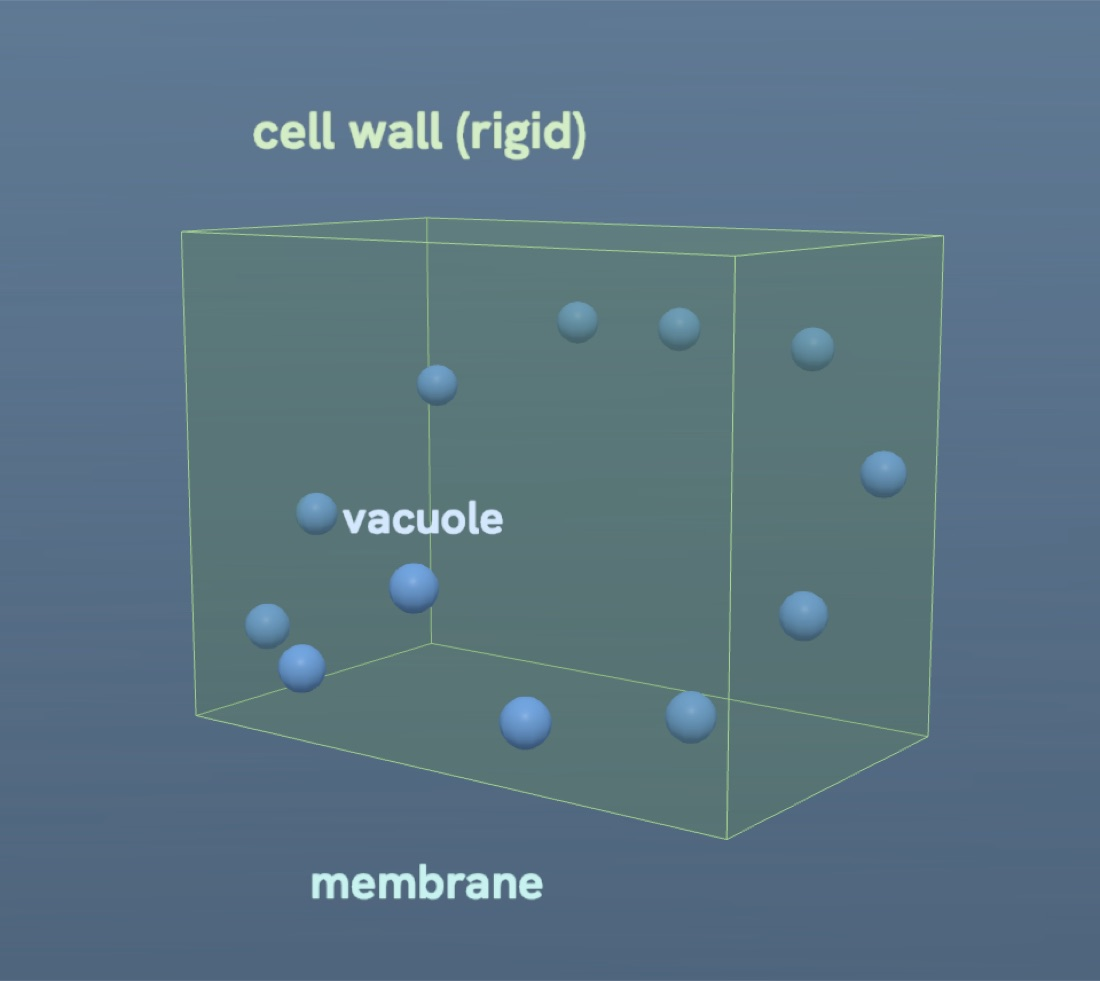
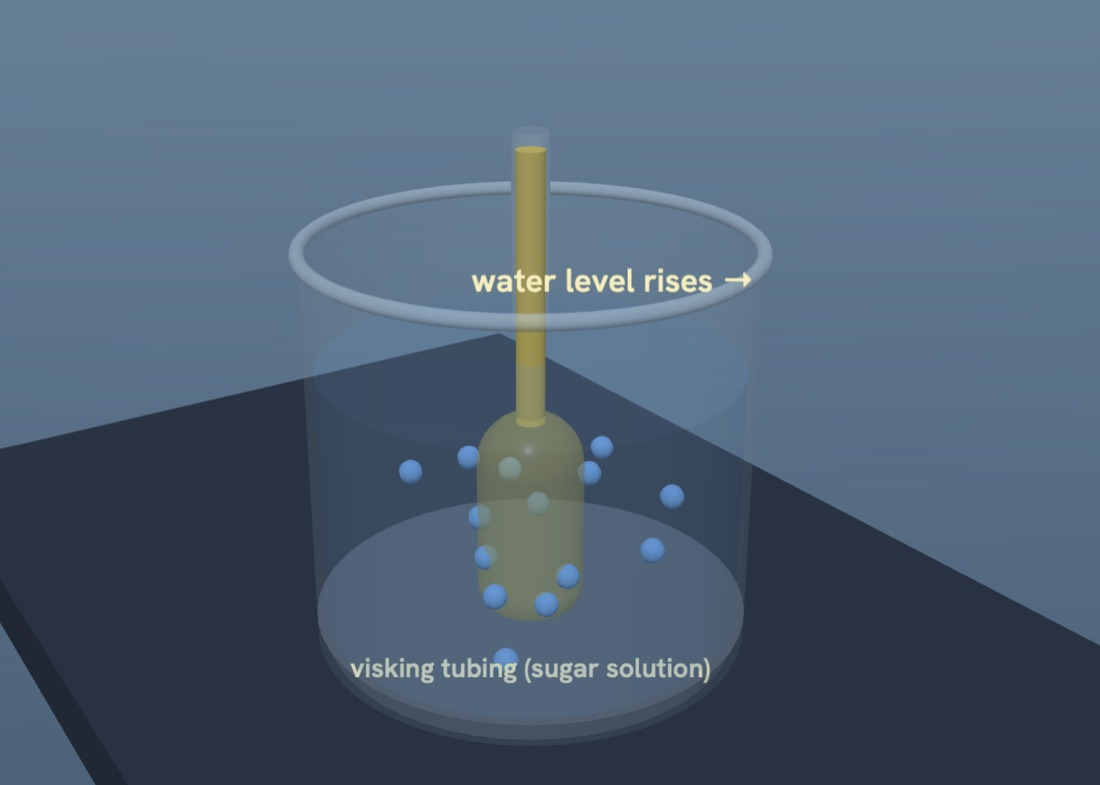
Supply & Demand v2: tangible marketplace (sold/unsold/unserved), scenario buttons, animated curves; update active-transport/le-chatelier/states tile pics

diff --git a/economics.html b/economics.html
@@ -13,20 +13,21 @@
   #gl{position:fixed;inset:0;width:100%;height:100%;display:block}
   .back{position:fixed;top:16px;left:18px;z-index:10;color:var(--dim);text-decoration:none;font-size:14px;font-weight:600}.back:hover{color:var(--ink)}
   .title{position:fixed;top:14px;left:0;right:0;text-align:center;z-index:9;font-family:'Fraunces',serif;font-weight:600;font-size:21px;text-shadow:0 2px 12px rgba(0,0,0,.5)}
-  .info{position:fixed;top:62px;right:14px;z-index:9;width:min(228px,50vw);background:var(--panel);border:1px solid var(--line);border-radius:16px;padding:14px;backdrop-filter:blur(14px)}
-  .rr{display:flex;justify-content:space-between;align-items:center;font-size:13px;margin-top:8px}.rr:first-child{margin-top:0}.rr .v{font-family:'Fraunces',serif;font-weight:600;font-size:16px}
-  .rr .v.p{color:var(--amber)}
-  .status{text-align:center;font-weight:700;font-size:14px;margin-top:11px;padding:7px;border-radius:9px}
-  .status.eq{background:rgba(46,196,182,.15);color:var(--teal)}.status.short{background:rgba(255,107,107,.16);color:#ff8f8f}.status.surp{background:rgba(246,166,35,.16);color:var(--amber)}
-  .note{font-size:11.5px;color:var(--dim);line-height:1.55;margin-top:10px;border-top:1px dashed var(--line);padding-top:9px}.note b{color:var(--amber)}
-  .ctrl{position:fixed;bottom:0;left:0;right:0;z-index:9;background:var(--panel);border-top:1px solid var(--line);border-radius:18px 18px 0 0;padding:14px clamp(14px,5vw,60px) calc(16px + env(safe-area-inset-bottom));backdrop-filter:blur(14px)}
-  .wrap2{max-width:700px;margin:0 auto}
-  .row{display:flex;align-items:center;gap:14px;margin-top:9px}.row:first-child{margin-top:0}
-  .row .name{flex:0 0 150px;font-weight:600;font-size:14px}.row .name.d{color:var(--demand)}.row .name.s{color:var(--supply)}
-  .row input[type=range]{flex:1;height:28px}
-  .row .val{flex:0 0 70px;text-align:right;font-family:'Fraunces',serif;font-weight:600;font-size:15px;color:var(--teal)}
-  #d{accent-color:var(--demand)}#s{accent-color:var(--supply)}#pc{accent-color:var(--amber)}
-  .seg button{font-family:'Hanken Grotesk';font-weight:600;font-size:12.5px;color:var(--dim);background:rgba(255,255,255,.06);border:1px solid var(--line);border-radius:9px;padding:7px 12px;cursor:pointer}
+  .info{position:fixed;top:58px;right:14px;z-index:9;width:min(230px,52vw);background:var(--panel);border:1px solid var(--line);border-radius:16px;padding:14px;backdrop-filter:blur(14px)}
+  .rr{display:flex;justify-content:space-between;font-size:13px;margin-top:7px}.rr:first-child{margin-top:0}.rr .v{font-family:'Fraunces',serif;font-weight:600;font-size:16px}.rr .v.p{color:var(--amber)}
+  .status{text-align:center;font-weight:700;font-size:13.5px;margin-top:10px;padding:7px;border-radius:9px}
+  .status.eq{background:rgba(46,196,182,.14);color:var(--teal)}.status.short{background:rgba(255,107,107,.16);color:#ff8f8f}.status.surp{background:rgba(246,166,35,.16);color:var(--amber)}
+  .note{font-size:11.5px;color:var(--dim);line-height:1.5;margin-top:9px;border-top:1px dashed var(--line);padding-top:8px}.note b{color:var(--amber)}
+  .ctrl{position:fixed;bottom:0;left:0;right:0;z-index:9;background:var(--panel);border-top:1px solid var(--line);border-radius:18px 18px 0 0;padding:12px clamp(14px,5vw,60px) calc(14px + env(safe-area-inset-bottom));backdrop-filter:blur(14px)}
+  .wrap2{max-width:720px;margin:0 auto}
+  .scen{display:flex;gap:6px;flex-wrap:wrap;justify-content:center;margin-bottom:9px}
+  .scen button{font-family:inherit;font-weight:600;font-size:12px;color:var(--ink);background:rgba(255,255,255,.07);border:1px solid var(--line);border-radius:999px;padding:7px 12px;cursor:pointer}
+  .scen button:hover{background:rgba(255,255,255,.13)}
+  .row{display:flex;align-items:center;gap:14px;margin-top:8px}
+  .row .name{flex:0 0 130px;font-weight:600;font-size:14px}.row .name.d{color:var(--demand)}.row .name.s{color:var(--supply)}
+  .row input[type=range]{flex:1;height:26px}#d{accent-color:var(--demand)}#s{accent-color:var(--supply)}#pc{accent-color:var(--amber)}
+  .row .val{flex:0 0 64px;text-align:right;font-family:'Fraunces',serif;font-weight:600;font-size:14px;color:var(--teal)}
+  .seg button{font-family:inherit;font-weight:600;font-size:12.5px;color:var(--dim);background:rgba(255,255,255,.06);border:1px solid var(--line);border-radius:9px;padding:7px 12px;cursor:pointer}
   .seg button.on{background:var(--amber);color:#3a2500;border-color:var(--amber)}
   #prow{opacity:.4;pointer-events:none}#prow.on{opacity:1;pointer-events:auto}
 </style>
@@ -38,70 +39,81 @@
   <div class="info">
     <div class="rr"><span>Equilibrium price</span><span class="v p" id="o-p">—</span></div>
     <div class="rr"><span>Equilibrium quantity</span><span class="v" id="o-q">—</span></div>
-    <div class="status eq" id="o-status">Market is at equilibrium</div>
-    <div class="note" id="o-note">Where <b style="color:#5b9bff">demand</b> meets <b style="color:#ff8f6b">supply</b> is the <b>equilibrium</b> — the price where quantity wanted = quantity supplied.</div>
+    <div class="status eq" id="o-status">Market at equilibrium</div>
+    <div class="note" id="o-note">Where <b style="color:#5b9bff">demand</b> meets <b style="color:#ff8f6b">supply</b> is the <b>equilibrium</b>. Below — the marketplace shows it: 🟢 sold, ⬜ unsold, 🔴 can't buy.</div>
   </div>
   <div class="ctrl"><div class="wrap2">
-    <div class="row"><span class="name d">Demand</span><input type="range" id="d" min="-28" max="28" step="2" value="0" oninput="draw()"><span class="val" id="d-v">normal</span></div>
-    <div class="row"><span class="name s">Supply</span><input type="range" id="s" min="-28" max="28" step="2" value="0" oninput="draw()"><span class="val" id="s-v">normal</span></div>
-    <div class="row"><span class="name">Government price</span><div class="seg"><button id="pcBtn" onclick="togglePC()">OFF</button></div><span style="flex:1;font-size:12px;color:var(--dim)">set a max/min price</span></div>
-    <div class="row" id="prow"><span class="name">Set price</span><input type="range" id="pc" min="5" max="95" step="1" value="50" oninput="draw()"><span class="val" id="pc-v">50</span></div>
+    <div class="scen">
+      <button onclick="scenario('trend')">👜 Becomes trendy</button>
+      <button onclick="scenario('reces')">📉 Recession</button>
+      <button onclick="scenario('harvest')">🌾 Bad harvest</button>
+      <button onclick="scenario('tech')">🏭 New technology</button>
+      <button onclick="scenario('reset')">↺ Reset</button>
+    </div>
+    <div class="row"><span class="name d">Demand</span><input type="range" id="d" min="-28" max="28" step="1" value="0" oninput="upd()"><span class="val" id="d-v">normal</span></div>
+    <div class="row"><span class="name s">Supply</span><input type="range" id="s" min="-28" max="28" step="1" value="0" oninput="upd()"><span class="val" id="s-v">normal</span></div>
+    <div class="row"><span class="name">Government price</span><div class="seg"><button id="pcBtn" onclick="togglePC()">OFF</button></div><input type="range" id="pc" min="5" max="95" step="1" value="50" oninput="upd()" style="flex:1;accent-color:var(--amber);height:26px;opacity:.4" /></div>
   </div></div>
 
 <script>
-const $=id=>document.getElementById(id);const cv=$('gl'),ctx=cv.getContext('2d');
-let W,H,pc=false;
-function resize(){const dp=Math.min(devicePixelRatio||1,2);W=cv.clientWidth;H=cv.clientHeight;cv.width=W*dp;cv.height=H*dp;ctx.setTransform(dp,0,0,dp,0,0);draw();}
+const $=id=>document.getElementById(id);const cv=$('gl'),ctx=cv.getContext('2d');const clamp=(v,a,b)=>Math.min(b,Math.max(a,v));const lerp=(a,b,t)=>a+(b-a)*t;
+let W,H,pc=false,curD=0,curS=0;
+function resize(){const dp=Math.min(devicePixelRatio||1,2);W=cv.clientWidth;H=cv.clientHeight;cv.width=W*dp;cv.height=H*dp;ctx.setTransform(dp,0,0,dp,0,0);}
 new ResizeObserver(resize).observe(cv);
 const QMAX=100,PMAX=100;
-function plot(){const w=Math.min(W-110,540),h=Math.min(H-300,360),L=Math.max(60,(W-w)/2),T=104,B=T+h,R=L+w;return{L,R,T,B,w,h};}
-const mX=q=>{const p=plot();return p.L+q/QMAX*p.w;};
-const mY=v=>{const p=plot();return p.B-v/PMAX*p.h;};
-function togglePC(){pc=!pc;$('pcBtn').classList.toggle('on',pc);$('pcBtn').textContent=pc?'ON':'OFF';$('prow').classList.toggle('on',pc);draw();}
+function plot(){const w=Math.min(W-120,470),h=Math.min(H-380,250),L=Math.max(64,(W-w)/2),T=96,B=T+h,R=L+w;return{L,R,T,B,w,h};}
+const mX=q=>{const p=plot();return p.L+q/QMAX*p.w;},mY=v=>{const p=plot();return p.B-v/PMAX*p.h;};
+function togglePC(){pc=!pc;$('pcBtn').classList.toggle('on',pc);$('pcBtn').textContent=pc?'ON':'OFF';$('pc').style.opacity=pc?'1':'.4';$('pc').style.pointerEvents=pc?'auto':'none';}
 window.togglePC=togglePC;
+let scenNote='';
+function scenario(s){const map={trend:['d',22],reces:['d',-20],harvest:['s',-22],tech:['s',20],reset:['r',0]};const m=map[s];
+  if(m[0]==='r'){$('d').value=0;$('s').value=0;scenNote='';}
+  else{$(m[0]).value=m[1];}
+  scenNote={trend:'👜 It became <b>trendy</b> → demand rises → price <b>and</b> quantity go up.',reces:'📉 In a <b>recession</b> people have less income → demand falls → price and quantity drop.',harvest:'🌾 A <b>bad harvest</b> cuts supply → price rises, quantity falls.',tech:'🏭 <b>New technology</b> makes producing cheaper → supply rises → price falls, quantity rises.',reset:''}[s];
+  upd();}
+window.scenario=scenario;
+function upd(){$('d-v').textContent=(+$('d').value)>0?'higher':(+$('d').value)<0?'lower':'normal';$('s-v').textContent=(+$('s').value)>0?'higher':(+$('s').value)<0?'lower':'normal';}
+window.upd=upd;
 function f(n){return Math.round(n);}
-function line(q1,p1,q2,p2,col,wd){ctx.strokeStyle=col;ctx.lineWidth=wd||3.5;ctx.beginPath();ctx.moveTo(mX(q1),mY(p1));ctx.lineTo(mX(q2),mY(p2));ctx.stroke();}
-function draw(){if(!W)return;const p=plot();ctx.clearRect(0,0,W,H);
-  // axes
-  ctx.strokeStyle='rgba(234,241,247,.5)';ctx.lineWidth=1.5;ctx.beginPath();ctx.moveTo(p.L,p.T);ctx.lineTo(p.L,p.B);ctx.lineTo(p.R,p.B);ctx.stroke();
-  ctx.fillStyle='rgba(234,241,247,.7)';ctx.font='600 13px Hanken Grotesk';ctx.save();ctx.translate(p.L-44,(p.T+p.B)/2);ctx.rotate(-Math.PI/2);ctx.textAlign='center';ctx.fillText('Price →',0,0);ctx.restore();
-  ctx.textAlign='center';ctx.fillText('Quantity →',(p.L+p.R)/2,p.B+30);
-  // params
-  const Dint=88+(+$('d').value), Dslope=0.78, Sint=12-(+$('s').value), Sslope=0.78;
-  $('d-v').textContent=(+$('d').value)>0?'higher':(+$('d').value)<0?'lower':'normal';
-  $('s-v').textContent=(+$('s').value)>0?'higher':(+$('s').value)<0?'lower':'normal';
-  // demand line: P=Dint-Dslope*Q ; supply: P=Sint+Sslope*Q (clip 0..QMAX,0..PMAX)
-  const dQatP0=Dint/Dslope; // demand hits P=0
-  line(0,Math.min(Dint,PMAX),Math.min(dQatP0,QMAX),Math.max(Dint-Dslope*Math.min(dQatP0,QMAX),0),'#5b9bff');
-  line(0,Math.max(Sint,0),QMAX,Sint+Sslope*QMAX,'#ff8f6b');
-  // equilibrium
-  const Q=(Dint-Sint)/(Dslope+Sslope), P=Sint+Sslope*Q;
-  // labels on curves
-  ctx.fillStyle='#5b9bff';ctx.font='700 14px Hanken Grotesk';ctx.textAlign='left';ctx.fillText('Demand',mX(Math.min(dQatP0,QMAX))-66,mY(0)-10);
-  ctx.fillStyle='#ff8f6b';ctx.fillText('Supply',mX(QMAX)-58,mY(Sint+Sslope*QMAX)+4);
-  $('o-p').textContent='$'+f(P);$('o-q').textContent=f(Q)+' units';
-  if(!pc){ // show equilibrium
-    ctx.setLineDash([5,5]);ctx.strokeStyle='rgba(46,196,182,.6)';ctx.lineWidth=1.5;ctx.beginPath();ctx.moveTo(p.L,mY(P));ctx.lineTo(mX(Q),mY(P));ctx.lineTo(mX(Q),p.B);ctx.stroke();ctx.setLineDash([]);
-    ctx.fillStyle='#2ec4b6';ctx.beginPath();ctx.arc(mX(Q),mY(P),6,0,7);ctx.fill();
-    ctx.fillStyle='#eaf1f7';ctx.font='600 12px Hanken Grotesk';ctx.fillText('equilibrium',mX(Q)+9,mY(P)-8);
-    $('o-status').className='status eq';$('o-status').textContent='Market clears at equilibrium';
-    $('o-note').innerHTML=(+$('d').value||+$('s').value)?'A shift changes the equilibrium: more <b style="color:#5b9bff">demand</b> → price & quantity up; more <b style="color:#ff8f6b">supply</b> → price down, quantity up.':'Where <b style="color:#5b9bff">demand</b> meets <b style="color:#ff8f6b">supply</b> is the <b>equilibrium</b> price & quantity.';
-  } else { // price control
-    const Pset=+$('pc').value;$('pc-v').textContent='$'+Pset;
-    ctx.setLineDash([6,4]);ctx.strokeStyle='#f6a623';ctx.lineWidth=2;ctx.beginPath();ctx.moveTo(p.L,mY(Pset));ctx.lineTo(p.R,mY(Pset));ctx.stroke();ctx.setLineDash([]);
-    const Qd=clamp((Dint-Pset)/Dslope,0,QMAX), Qs=clamp((Pset-Sint)/Sslope,0,QMAX);
-    ctx.strokeStyle='#fff';ctx.lineWidth=2;ctx.beginPath();ctx.moveTo(mX(Qd),mY(Pset)-6);ctx.lineTo(mX(Qd),mY(Pset)+6);ctx.moveTo(mX(Qs),mY(Pset)-6);ctx.lineTo(mX(Qs),mY(Pset)+6);ctx.stroke();
-    // gap shading
-    ctx.fillStyle=Pset>P?'rgba(246,166,35,.25)':'rgba(255,107,107,.25)';ctx.fillRect(mX(Math.min(Qd,Qs)),mY(Pset)-9,Math.abs(mX(Qs)-mX(Qd)),18);
-    ctx.fillStyle='#cfe0ee';ctx.font='600 11px Hanken Grotesk';ctx.textAlign='left';
-    ctx.fillText('Qd='+f(Qd),mX(Qd)-10,mY(Pset)+24);ctx.fillText('Qs='+f(Qs),mX(Qs)-10,mY(Pset)-14);
-    if(Math.abs(Pset-P)<1.5){$('o-status').className='status eq';$('o-status').textContent='Price = equilibrium';$('o-note').innerHTML='At the equilibrium price there is <b>no</b> shortage or surplus.';}
-    else if(Pset>P){const g=f(Qs-Qd);$('o-status').className='status surp';$('o-status').textContent='Surplus of '+g+' units';$('o-note').innerHTML='Price is <b>above</b> equilibrium (like a <b>minimum price / price floor</b>) → firms supply more than people buy → a <b>surplus</b>.';}
-    else{const g=f(Qd-Qs);$('o-status').className='status short';$('o-status').textContent='Shortage of '+g+' units';$('o-note').innerHTML='Price is <b>below</b> equilibrium (like a <b>maximum price / price ceiling</b>) → people want more than firms supply → a <b>shortage</b>.';}
-  }
+function line(q1,p1,q2,p2,col){ctx.strokeStyle=col;ctx.lineWidth=3.5;ctx.beginPath();ctx.moveTo(mX(q1),mY(p1));ctx.lineTo(mX(q2),mY(p2));ctx.stroke();}
+function market(Qs,Qd,P,Peq){const p=plot();const top=p.B+60;const cxc=W/2;
+  ctx.fillStyle='rgba(234,241,247,.7)';ctx.font='600 12px Hanken Grotesk';ctx.textAlign='center';ctx.fillText('the marketplace',cxc,top-12);
+  const unit=QMAX/12;const ng=Math.round(Qs/unit),nb=Math.round(Qd/unit),matched=Math.min(ng,nb);
+  const gap=18,x0=cxc-(11*gap)/2;
+  // goods row (boxes)
+  for(let i=0;i<12;i++){const on=i<ng;ctx.fillStyle=on?(i<matched?'#8ce99a':'#aab4bf'):'rgba(255,255,255,.06)';ctx.beginPath();ctx.roundRect(x0+i*gap-6,top,12,12,3);ctx.fill();}
+  // buyers row (heads)
+  for(let i=0;i<12;i++){const on=i<nb;ctx.fillStyle=on?(i<matched?'#8ce99a':'#ff8f8f'):'rgba(255,255,255,.06)';ctx.beginPath();ctx.arc(x0+i*gap,top+26,6,0,7);ctx.fill();}
+  ctx.fillStyle='rgba(234,241,247,.55)';ctx.font='11px Hanken Grotesk';ctx.textAlign='left';ctx.fillText('goods supplied',x0-2,top-2+0);ctx.fillText('buyers (demand)',x0-2,top+44);
 }
-function clamp(v,a,b){return Math.min(b,Math.max(a,v));}
-resize();
+function draw(){if(!W){requestAnimationFrame(draw);return;}
+  curD=lerp(curD,+$('d').value,0.12);curS=lerp(curS,+$('s').value,0.12);
+  const p=plot();ctx.clearRect(0,0,W,H);
+  ctx.strokeStyle='rgba(234,241,247,.5)';ctx.lineWidth=1.5;ctx.beginPath();ctx.moveTo(p.L,p.T);ctx.lineTo(p.L,p.B);ctx.lineTo(p.R,p.B);ctx.stroke();
+  ctx.fillStyle='rgba(234,241,247,.7)';ctx.font='600 12px Hanken Grotesk';ctx.textAlign='center';ctx.fillText('Quantity →',(p.L+p.R)/2,p.B+26);ctx.save();ctx.translate(p.L-42,(p.T+p.B)/2);ctx.rotate(-Math.PI/2);ctx.fillText('Price →',0,0);ctx.restore();
+  const Dint=88+curD,Dslope=0.78,Sint=12-curS,Sslope=0.78;
+  const Q=(Dint-Sint)/(Dslope+Sslope),P=Sint+Sslope*Q;
+  line(0,Math.min(Dint,PMAX),Math.min(Dint/Dslope,QMAX),Math.max(Dint-Dslope*Math.min(Dint/Dslope,QMAX),0),'#5b9bff');
+  line(0,Math.max(Sint,0),QMAX,Sint+Sslope*QMAX,'#ff8f6b');
+  ctx.fillStyle='#5b9bff';ctx.font='700 13px Hanken Grotesk';ctx.textAlign='left';ctx.fillText('Demand',mX(Math.min(Dint/Dslope,QMAX))-60,mY(0)-8);
+  ctx.fillStyle='#ff8f6b';ctx.fillText('Supply',mX(QMAX)-52,mY(Sint+Sslope*QMAX)+2);
+  $('o-p').textContent='$'+f(P);$('o-q').textContent=f(Q)+' units';
+  let Qs=Q,Qd=Q;
+  if(!pc){ctx.setLineDash([5,5]);ctx.strokeStyle='rgba(46,196,182,.6)';ctx.lineWidth=1.5;ctx.beginPath();ctx.moveTo(p.L,mY(P));ctx.lineTo(mX(Q),mY(P));ctx.lineTo(mX(Q),p.B);ctx.stroke();ctx.setLineDash([]);
+    ctx.fillStyle='#2ec4b6';ctx.beginPath();ctx.arc(mX(Q),mY(P),6,0,7);ctx.fill();ctx.fillStyle='#eaf1f7';ctx.font='600 12px Hanken Grotesk';ctx.fillText('equilibrium',mX(Q)+9,mY(P)-8);
+    $('o-status').className='status eq';$('o-status').textContent='Market clears — everything sold';
+    $('o-note').innerHTML=scenNote||'Where <b style="color:#5b9bff">demand</b> meets <b style="color:#ff8f6b">supply</b> = <b>equilibrium</b>. Try a scenario above.';
+  }else{const Pset=+$('pc').value;
+    ctx.setLineDash([6,4]);ctx.strokeStyle='#f6a623';ctx.lineWidth=2;ctx.beginPath();ctx.moveTo(p.L,mY(Pset));ctx.lineTo(p.R,mY(Pset));ctx.stroke();ctx.setLineDash([]);
+    Qd=clamp((Dint-Pset)/Dslope,0,QMAX);Qs=clamp((Pset-Sint)/Sslope,0,QMAX);
+    ctx.fillStyle=Pset>P?'rgba(246,166,35,.25)':'rgba(255,107,107,.25)';ctx.fillRect(mX(Math.min(Qd,Qs)),mY(Pset)-8,Math.abs(mX(Qs)-mX(Qd)),16);
+    if(Math.abs(Pset-P)<1.5){$('o-status').className='status eq';$('o-status').textContent='Price = equilibrium';$('o-note').innerHTML='No shortage or surplus at the equilibrium price.';}
+    else if(Pset>P){$('o-status').className='status surp';$('o-status').textContent='Surplus of '+f(Qs-Qd)+' units';$('o-note').innerHTML='Price <b>above</b> equilibrium (a <b>minimum price/floor</b>) → unsold <b>surplus</b>.';}
+    else{$('o-status').className='status short';$('o-status').textContent='Shortage of '+f(Qd-Qs)+' units';$('o-note').innerHTML='Price <b>below</b> equilibrium (a <b>maximum price/ceiling</b>) → <b>shortage</b>, buyers miss out.';}
+  }
+  market(Qs,Qd,pc?+$('pc').value:P,P);
+  requestAnimationFrame(draw);}
+resize();upd();requestAnimationFrame(draw);
 </script>
 </body>
 </html>